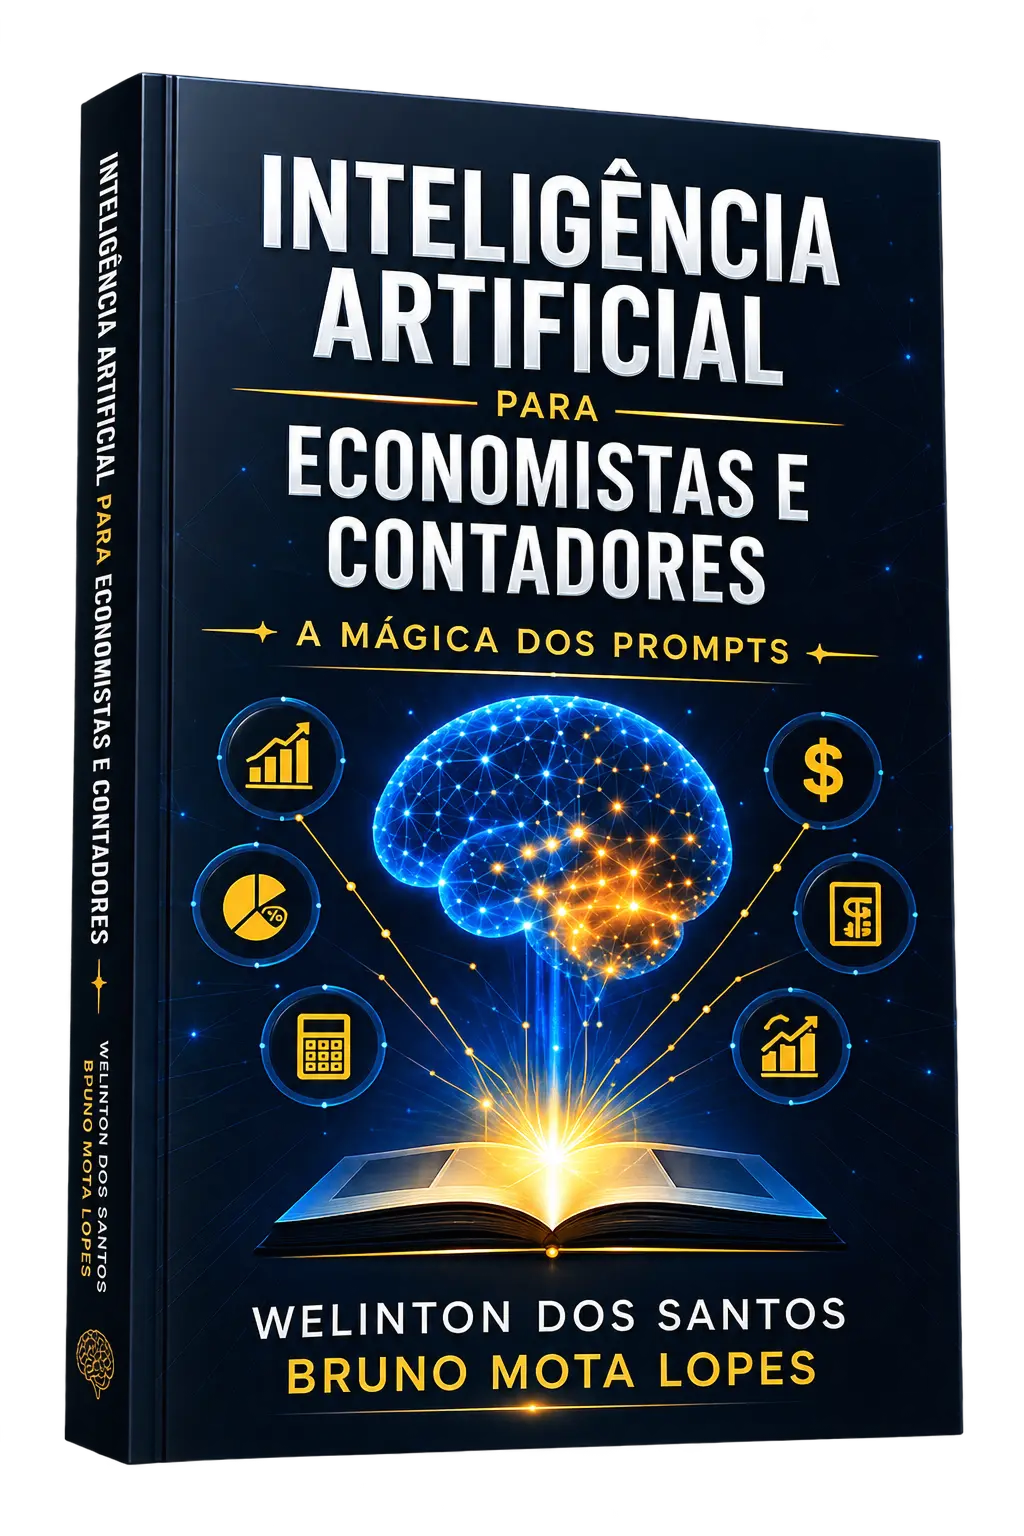
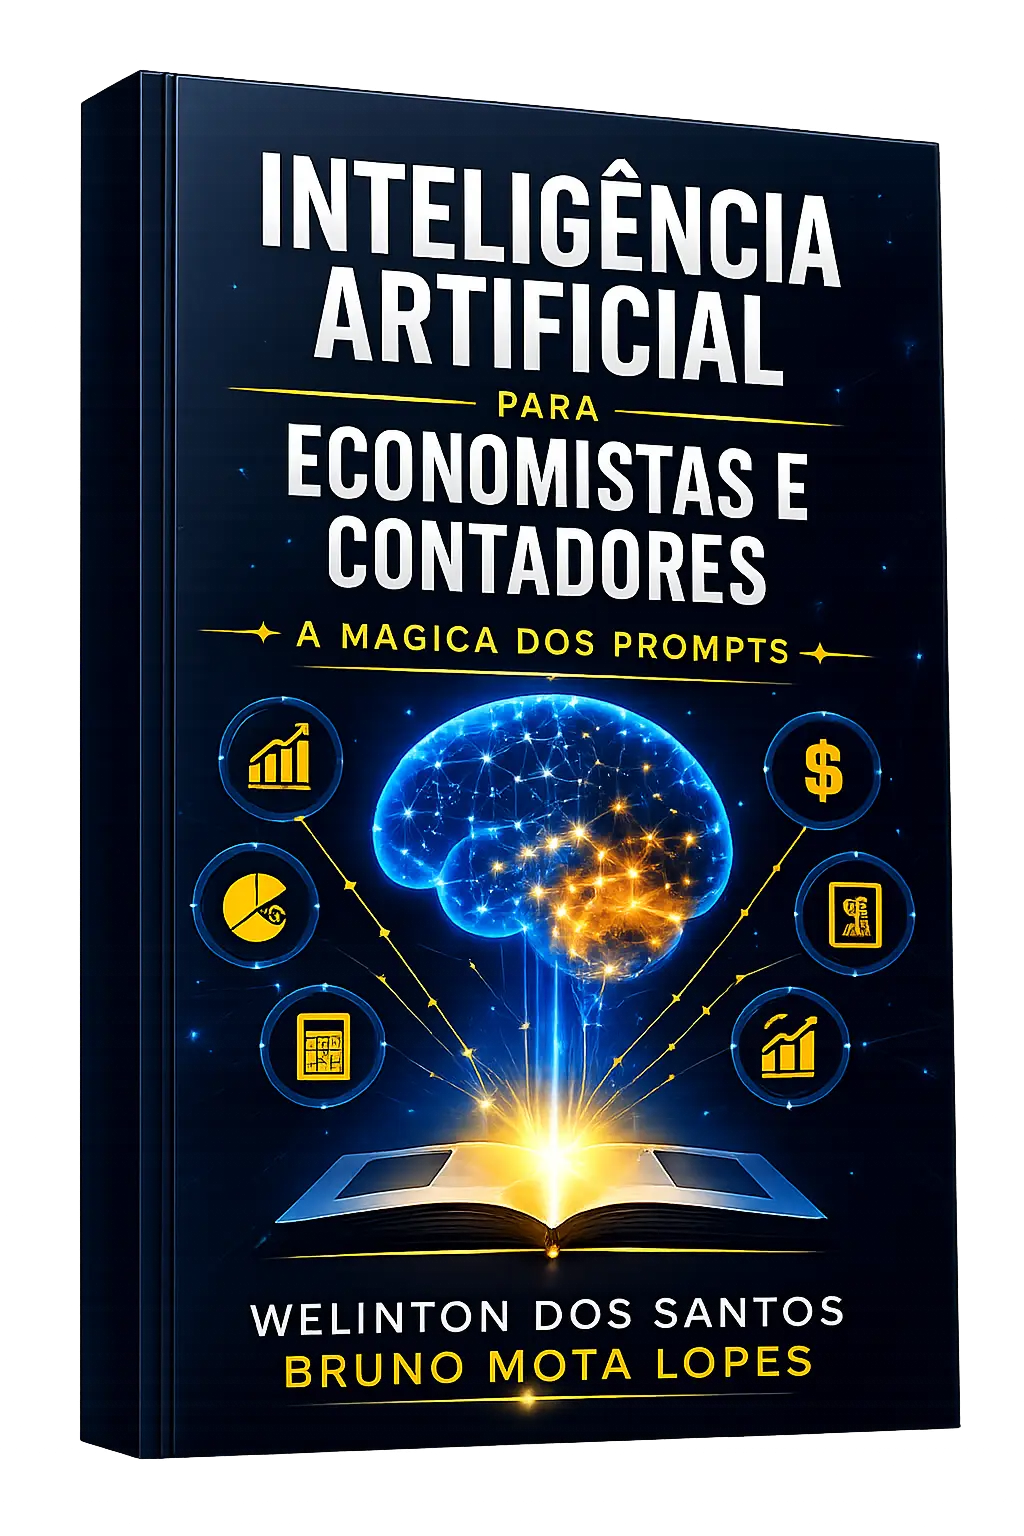
chore: update project and apply general improvements

diff --git a/home/page-autores.css b/home/page-autores.css
@@ -6,7 +6,7 @@
 
 .autores-section {
 	background: var(--navy-950);
-	padding: 30px 40px 60px;
+	padding: 0px 40px 60px;
 	position: relative;
 }
 
@@ -59,7 +59,7 @@
 	display: flex;
 	align-items: center;
 	gap: 20px;
-	margin-bottom: 40px;
+	margin-bottom: 48px;
 }
 
 .autores-line {
@@ -75,8 +75,8 @@
 
 .autores-title {
 	color: #c98f4a;
-	font-size: 22px;
-	letter-spacing: 4px;
+	font-size: 28px;
+	letter-spacing: 5px;
 	font-weight: 600;
 	white-space: nowrap;
 	margin: 0;
@@ -87,13 +87,13 @@
 	display: flex;
 	align-items: flex-start;
 	justify-content: space-between;
-	gap: 24px;
+	gap: 32px;
 }
 
 .autores-item {
 	display: flex;
 	align-items: flex-start;
-	gap: 14px;
+	gap: 18px;
 	flex: 1;
 }
 
@@ -105,8 +105,8 @@
 
 .autores-icon {
 	flex-shrink: 0;
-	width: 48px;
-	height: 48px;
+	width: 64px;
+	height: 64px;
 	display: flex;
 	align-items: center;
 	justify-content: center;
@@ -118,56 +118,21 @@
 	height: 100%;
 }
 
-.autores-icon-brain {
-	width: 48px;
-	height: 48px;
-}
-
 .autores-content h3 {
 	color: #c98f4a;
-	font-size: 14px;
+	font-size: 17px;
 	letter-spacing: 0.5px;
 	font-weight: 700;
-	margin: 0 0 6px;
+	margin: 0 0 8px;
 	line-height: 1.3;
 }
 
 .autores-content p {
 	color: #d7d2c8;
-	font-size: 13px;
-	line-height: 1.5;
+	font-size: 15px;
+	line-height: 1.55;
 	margin: 0;
 	opacity: 0.85;
-}
-
-/* Item de citação (aspas) */
-.autores-quote {
-	position: relative;
-	align-items: center;
-	max-width: 230px;
-}
-
-.autores-quote p {
-	color: #e9e4d8;
-	font-size: 14px;
-	font-style: italic;
-	line-height: 1.5;
-	margin: 0;
-}
-
-.quote-mark {
-	font-size: 40px;
-	color: #c98f4a;
-	line-height: 0;
-	flex-shrink: 0;
-}
-
-.quote-open {
-	align-self: flex-start;
-}
-
-.quote-close {
-	align-self: flex-end;
 }
 
 /* Responsivo */
@@ -176,7 +141,7 @@
 		flex-wrap: wrap;
 	}
 	.autores-item {
-		flex-basis: calc(50% - 12px);
+		flex-basis: calc(50% - 16px);
 	}
 	.autores-divider {
 		display: none;
@@ -191,7 +156,17 @@
 		gap: 12px;
 	}
 	.autores-title {
-		font-size: 16px;
-		letter-spacing: 2px;
+		font-size: 20px;
+		letter-spacing: 3px;
+	}
+	.autores-icon {
+		width: 52px;
+		height: 52px;
+	}
+	.autores-content h3 {
+		font-size: 15px;
+	}
+	.autores-content p {
+		font-size: 14px;
 	}
 }

diff --git a/home/page-hero.css b/home/page-hero.css
@@ -18,7 +18,7 @@
 .hero-launch {
   position: relative;
   width: 100%;
-  aspect-ratio: 1697 / 927; /* mesma proporção do banner original */
+  aspect-ratio: 1697 / 777;; /* mesma proporção do banner original */
   overflow: hidden;
   background: #0b0e1a; /* fallback enquanto a imagem carrega */
 }
@@ -41,7 +41,7 @@
   top: 0;
   left: 0;
   width: 1697px;
-  height: 927px;
+  height: 777px;
   transform-origin: top left;
   transform: scale(var(--hero-scale, 1));
 
@@ -54,24 +54,6 @@
   align-items: center;
 }
 
-/* =========================================================
-   OVERLAY
-========================================================= */
-
-.hero-launch__scale::before {
-  content: "";
-  position: absolute;
-  inset: 0;
-
-  background: linear-gradient(
-    to right,
-    rgba(11, 14, 26, 0.45) 0%,
-    rgba(11, 14, 26, 0.20) 55%,
-    rgba(11, 14, 26, 0) 100%
-  );
-
-  z-index: 1;
-}
 
 /* =========================================================
    FADE INFERIOR — dissolve a imagem na cor de background.
@@ -80,22 +62,23 @@
    em px reais. Isso evita que ele "cresça" proporcionalmente
    conforme a tela estreita e acabe cobrindo o botão/CTA.
 ========================================================= */
-
 .hero-launch__scale::after {
   content: "";
   position: absolute;
   bottom: 0;
   left: 0;
   width: 100%;
-  height: 250px; /* coordenada nativa do design 1697x927 — escala junto */
+  height: 100px;
+
   background: linear-gradient(
     to bottom,
     rgba(10, 15, 28, 0) 0%,
-    rgba(10, 15, 28, 0.25) 25%,
-    rgba(10, 15, 28, 0.5) 50%,
-    rgba(10, 15, 28, 0.75) 75%,
+    rgba(10, 15, 28, 0.10) 35%,
+    rgba(10, 15, 28, 0.25) 65%,
+    rgba(10, 15, 28, 0.55) 85%,
     var(--navy-950, #0a0f1c) 100%
   );
+
   pointer-events: none;
   z-index: 1;
 }

diff --git a/home/content-hero.php b/home/content-hero.php
@@ -26,7 +26,7 @@
  */
 ?>
 <section class="hero-launch">
-  <div class="hero-launch__scale" style="--hero-bg: url('<?php echo get_template_directory_uri(); ?>/assets/img/banner.png');">
+  <div class="hero-launch__scale" style="--hero-bg: url('<?php echo get_template_directory_uri(); ?>/assets/img/banner-bruno-mota-welinton-santos.webp');">
     <div class="container">
 
       <div class="hero-launch__block hero-launch__block--content">

diff --git a/home/content-autores.php b/home/content-autores.php
@@ -83,14 +83,6 @@
 				</div>
 			</div>
 
-			<span class="autores-divider"></span>
-
-			<div class="autores-item autores-quote">
-				<span class="quote-mark quote-open">&ldquo;</span>
-				<p>A IA não vai substituir você. Mas quem usa IA vai.</p>
-				<span class="quote-mark quote-close">&rdquo;</span>
-			</div>
-
 		</div>
 
 		<span class="autores-glow"></span>
